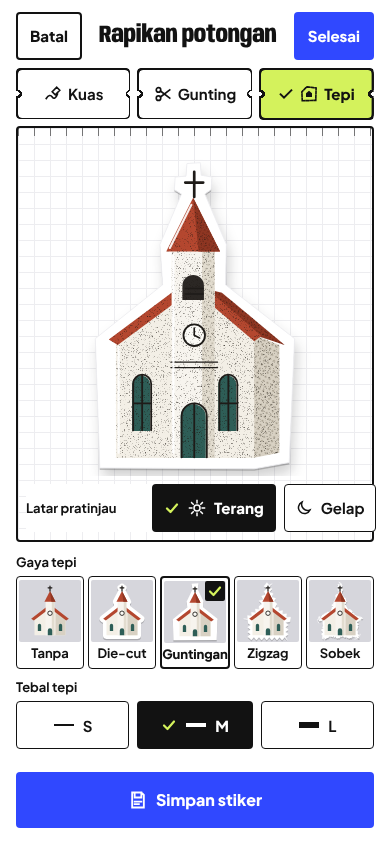
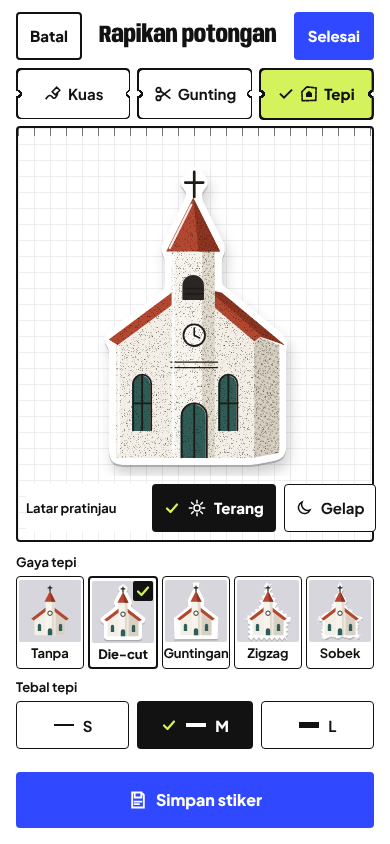
K-031: opsi editor v5 masuk MVP, tepi bawaan Die-cut (jawab Q-022)
Claude-Session: https://claude.ai/code/session_01RwujPoypsKpkKnPt9b6a3g

diff --git a/docs/keputusan.md b/docs/keputusan.md
@@ -382,3 +382,44 @@
   - `data/sounds.json`: entri `page-turn-placeholder` (`app/assets/sounds/page-turn-placeholder.wav`, dibuat oleh `app/tool/make_page_turn_sound.py`).
   - Placeholder tetap diganti rekaman foley sebelum rilis, kecuali ada keputusan baru yang menetapkan suara sintesis sebagai versi final.
 - **Menjawab**: Q-016
+
+### K-031 · Opsi editor v5 masuk MVP, tepi bawaan Die-cut
+- **Tanggal**: 18 Nov 2026
+- **Keputusan**:
+  - **Sampul**: 8 template (Kobalt, Koran, Jendela, Peta trayek, Perangko, Tinta, Kliping, Karcis), 1–3 stiker temuan per template, dan **set hiasan** buatan sendiri (Karcis, Pos, Coretan; 12 hiasan) yang posisinya diatur template. Penempatan bebas di sampul tetap ditunda (spesifikasi §8).
+  - **Halaman**:
+    - 4 tepi stiker: putih, tanpa, gunting, bingkai.
+    - 6 tinta keterangan: Tinta `#121212`, Kobalt `#3048FF`, Sepia `#6B4226`, Merah cap `#B42318`, Magenta `#C2185B`, Hijau `#276B4A`. Semuanya ≥ 4,5:1 di kertas buku dan selotip.
+    - 6 motif selotip, 4 posisi selotip, 4 kertas latar (polos, garis, titik, grid), dan 6 gaya halaman siap pakai.
+    - Tombol **Acak tata letak**.
+  - **Acak dan K-005**: Acak hanya dijalankan pengguna. Halaman tetap berstatus `isManuallyArranged`, keterangan tidak berubah, dan hasilnya bisa diurungkan. Sistem tetap tidak pernah mengacak sendiri.
+  - **Hapus temuan** (permanen, termasuk cutout di cloud, dengan konfirmasi) terpisah dari **Lepas dari halaman** (temuan tetap ada).
+  - **Rapikan potongan**:
+    - tiga mode: Kuas (Tambah/Hapus, kaca pembesar), Gunting poligon, dan Tepi;
+    - lima gaya tepi: Tanpa, Die-cut, Guntingan, Zigzag, Sobek; tebal S/M/L;
+    - **gaya tepi bawaan: Die-cut putih**.
+- **Alasan**:
+  - Pemilik menilai editor sebelumnya kurang variatif dan meminta semua opsi hasil riset masuk MVP (18 Nov 2026).
+  - Riset menunjukkan pola "pilihan terkurasi supaya hasil selalu bagus" (preset, palet terbatas, tombol acak) di aplikasi kolase dan buku foto (`docs/riset/2026-11-18-editor-kolase-variatif.md`).
+  - Laso poligon dan tepi guntingan/zigzag tidak ditemukan di aplikasi konsumen, jadi keduanya menjadi pembeda (`docs/riset/2026-11-18-ux-potong-latar-dan-gunting.md`).
+  - Die-cut putih adalah tepi yang paling dikenal (pola stiker iOS dan Photoroom) dan paling bersih di latar apa pun.
+  - Hiasan dibuat sendiri karena hanya itu yang bebas kredit dan cocok tema (`docs/riset/2026-11-18-stiker-hiasan-lisensi.md`).
+- **Ditolak**:
+  - MVP minimal (hanya opsi berprioritas "wajib" dari riset; Gunting, Guntingan, Zigzag, Sobek, Acak, dan hiasan ditunda): pemilik ingin hasil akhir lebih variatif sejak awal.
+  - Guntingan sebagai tepi bawaan: lebih khas, tetapi kurang dikenal dan lebih berat dirender. Tetap tersedia sebagai pilihan.
+  - Stiker hiasan dari pustaka luar (OpenMoji, Twemoji, Streamline, emoji): wajib kredit atau melanggar daftar "jangan" v5. Sumber CC0 museum hanya dipakai sebagai acuan bentuk.
+- **Konsekuensi**:
+  - Spesifikasi v1 §4.3 (hanya kuas manual) dan §4.5 (sampul = template + nama + stiker) diperluas oleh keputusan ini; teks spesifikasi tidak diedit.
+  - Glosarium perlu istilah baru (K-014):
+    - tepi stiker `edgeStyle` (`none`/`dieCut`/`snipped`/`pinking`/`torn`) dan `edgeWidth`;
+    - motif selotip;
+    - tinta keterangan;
+    - kertas latar;
+    - gaya halaman;
+    - stiker hiasan;
+    - `templateId` di `Book.cover`.
+  - Hiasan buatan sendiri dicatat seperti suara (K-024/K-030): data/decorations.json (usulan) dengan lisensi `own`, dikerjakan `desainer-visual`/`kurator-katalog`.
+  - Skema drift dan Supabase untuk `Placement` dan `Book.cover` perlu kolom baru (`arsitek-flutter`, `backend-supabase`). Rincian batas atur manual dan isi sampul masih di Q-020 dan Q-021.
+  - Risiko performa di Infinix Hot 11 Play (K-016) harus diukur sebelum dikunci: tepi Zigzag/Sobek/Guntingan, kaca pembesar, dan kertas bermotif. Tepi dirender sekali saat simpan, bukan per frame (`animasi-buku`, `kamera-cutout`).
+  - Rupa visual opsi-opsi ini mengikuti arah v5, yang masih menunggu Q-017. Bila arah visual berubah, daftar opsinya tetap berlaku.
+- **Menjawab**: Q-022

diff --git a/docs/pertanyaan.md b/docs/pertanyaan.md
@@ -14,7 +14,6 @@
 | Q-019 | Warna untuk 4 kategori yang belum punya warna (Minuman, Hewan, Barang, Lainnya)? Usulan v5: `#5ED1E0`, `#C7A6FF`, `#E0C39A`, `#D6D6DC` (tinta di atasnya 9,2–13,0:1). Karena warna kategori < 3:1 terhadap putih, label kategori wajib bergaris tinta dan selalu ikon + teks | `data/categories.json` punya 9 kategori (K-020), sistem v4 baru mewarnai 5 | K-020, Q-017 |
 | Q-020 | Batas atur manual stiker di editor halaman dan kolom baru `Placement`? Usulan mockup v5: putar 2° per ketukan dengan batas ±15° (±4° tetap untuk tata letak otomatis), ukuran 60–150% dari slot template, geser 4 dp per ketukan dengan minimal 50% stiker di dalam halaman, urungkan minimal 20 langkah sampai Simpan; kolom baru `tapeStyle` (`none`/`oneCorner`/`twoCorners`/`top`) dan `noteInk` (`cobalt`/`ink`); "Lepas dari halaman" menghapus `Placement`, `Finding` tetap (ke mana temuan itu tampil belum diputuskan) | Editor halaman (K-005) butuh batas agar halaman tetap rapi; kolom baru menyentuh glosarium (K-014) dan skema drift/Supabase | K-005, K-014 |
 | Q-021 | Isi `Book.cover` untuk MVP? Usulan mockup v5: `templateId` (4 template: Kobalt, Tinta, Kliping, Karcis), judul maksimal 24 karakter dengan aturan perkecil/turun baris per template, dan maksimal 3 stiker berurutan (urutan pilih = posisi). Editor sampul lanjutan (geser bebas) tetap ditunda (spesifikasi §8) | Spesifikasi §4.5 hanya menyebut "template + nama + stiker"; `templateId` belum ada di glosarium | Spesifikasi §4.5, §8, K-014 |
-| Q-022 | Opsi editor v5 hasil riset 18 Nov (mana yang masuk MVP)? (a) **Sampul**: 8 template (Kobalt, Koran, Jendela, Peta trayek, Perangko, Tinta, Kliping, Karcis) dengan jumlah stiker 1–3 per template, dan **set hiasan** buatan sendiri (Karcis, Pos, Coretan; 12 hiasan) yang posisinya diatur template, di luar spesifikasi §4.5. (b) **Halaman**: 4 tepi stiker (putih, tanpa, gunting, bingkai), 6 tinta keterangan (Tinta, Kobalt, Sepia `#6B4226`, Merah cap `#B42318`, Magenta `#C2185B`, Hijau `#276B4A`), 6 motif selotip, 4 kertas latar, 6 gaya halaman siap pakai, tombol Acak tata letak (hanya dipicu pengguna, halaman tetap `isManuallyArranged`, bisa diurungkan; perlu tafsiran K-005). (c) "Hapus temuan" permanen termasuk cutout di cloud, terpisah dari "Lepas dari halaman". (d) **Rapikan potongan**: mode Kuas (wajib), Gunting poligon (bagus), Tepi dengan gaya Tanpa/Die-cut (wajib), Guntingan (bagus), Zigzag/Sobek (nanti); gaya tepi bawaan belum dipilih (Die-cut atau Guntingan). Istilah baru untuk glosarium: tepi stiker `edgeStyle`/`edgeWidth`, motif selotip, tinta keterangan, kertas latar, gaya halaman, stiker hiasan, `templateId` | Menentukan cakupan MVP editor dan skema data `Placement`/`Book.cover`; menyentuh K-005, K-014, K-024/K-030 (hiasan buatan sendiri, dicatat seperti suara), spesifikasi §4.3, §4.5, §8 | K-005, K-014, Q-020, Q-021 |
 
 ## Terjawab
 
@@ -35,3 +34,4 @@
 | Q-013 | State management dan struktur folder Flutter (usulan ada di `docs/teknis/arsitektur.md`) | Riverpod 3 tanpa generator; struktur per fitur | K-027 |
 | Q-014 | Arti angka di stempel kota "Bandung 23/100": target tetap per kota, jumlah landmark + slot temuan, atau hal lain? | Jumlah temuan di kota / target temuan kota (default 100) | K-028 |
 | Q-016 | Suara yang disintesis sendiri (skrip, tanpa bahan pihak ketiga) boleh dipakai dan dicatat di `data/sounds.json`? | Ya. `source` = `synth`, `license` = `own`; rekaman foley tetap diutamakan dan placeholder diganti sebelum rilis | K-030 |
+| Q-022 | Opsi editor v5 hasil riset 18 Nov: mana yang masuk MVP, dan gaya tepi bawaan apa? | Semua opsi masuk MVP (8 template sampul + set hiasan, tepi stiker, 6 tinta, motif selotip, kertas latar, gaya halaman, Acak, Hapus temuan, Rapikan 3 mode + 5 gaya tepi); tepi bawaan Die-cut putih | K-031 |
